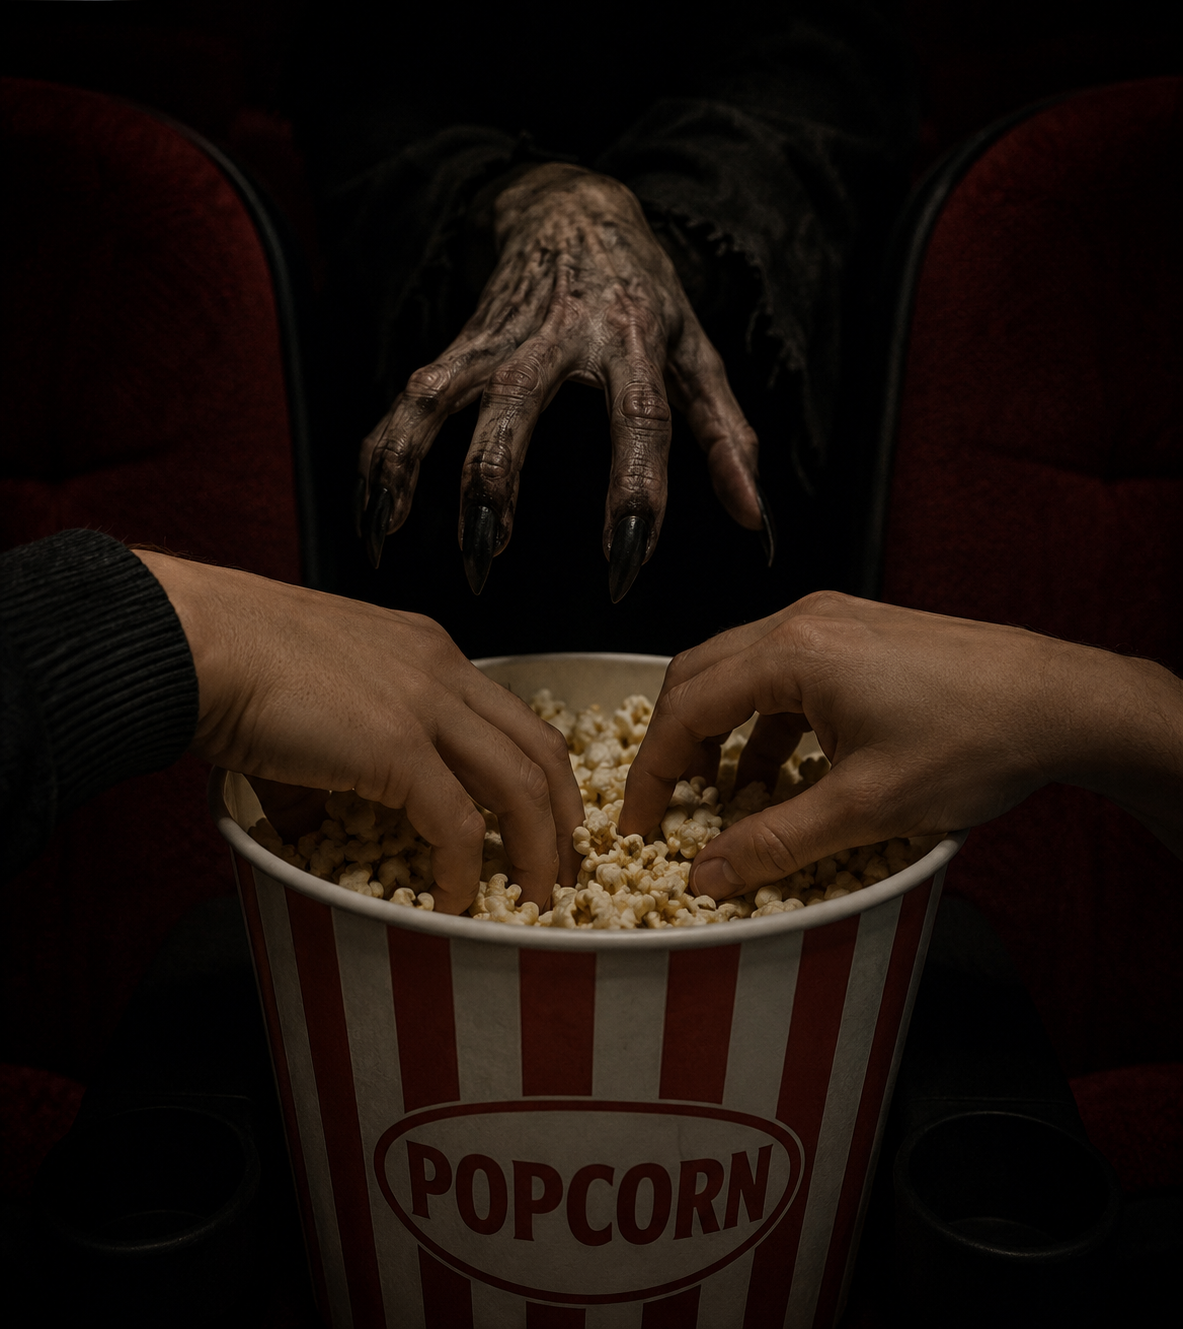
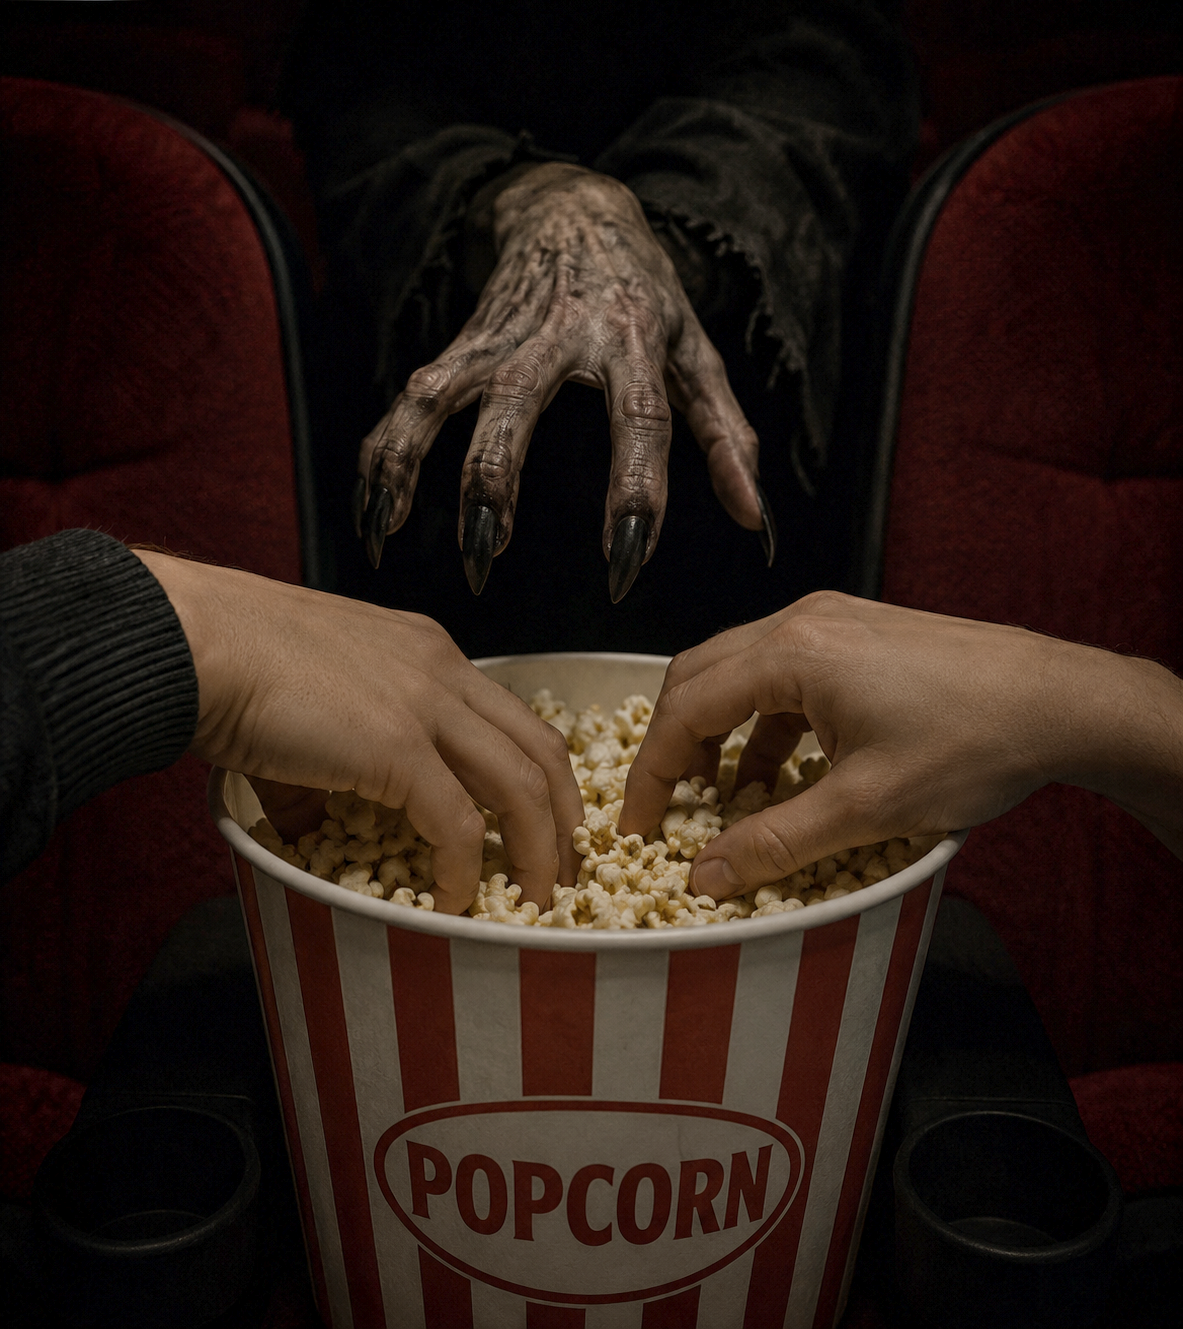
Gently lift the claw and OG-card images too
Gamma 1.35 on the fun-fact hand, 1.25 on the social card, so they read on
dim screens; ?v=2 references bust the immutable image cache.

diff --git a/third_wheel/web/static/index.html b/third_wheel/web/static/index.html
@@ -16,14 +16,14 @@
   <meta property="og:title" content="הגלגל 5 · Third Wheel" />
   <meta property="og:description" content="מוצא זוגות לבד באולם הקולנוע — וקונה לך את המושב שממש לידם. כלי בדיחה. שעובד באמת." />
   <meta property="og:url" content="__BASE_URL__/" />
-  <meta property="og:image" content="__BASE_URL__/assets/og-image.png" />
+  <meta property="og:image" content="__BASE_URL__/assets/og-image.png?v=2" />
   <meta property="og:image:width" content="1200" />
   <meta property="og:image:height" content="630" />
   <meta property="og:image:alt" content="הגלגל 5 — יד מפלצתית נשלחת אל דלי הפופקורן של זוג באולם קולנוע" />
   <meta name="twitter:card" content="summary_large_image" />
   <meta name="twitter:title" content="הגלגל 5 · Third Wheel" />
   <meta name="twitter:description" content="מוצא זוגות לבד באולם — וקונה לך את המושב שממש לידם." />
-  <meta name="twitter:image" content="__BASE_URL__/assets/og-image.png" />
+  <meta name="twitter:image" content="__BASE_URL__/assets/og-image.png?v=2" />
 
   <link rel="stylesheet" href="/static/style.css?v=__ASSET_V__" />
 </head>
@@ -72,7 +72,7 @@
           <blockquote id="factText" class="funfact__text"><span class="spinner"></span>טוען עובדה…</blockquote>
           <button id="factBtn" class="btn">עובדה נוספת 🎬</button>
         </div>
-        <img class="funfact__hand" src="/assets/third_hand_in_popcorn.png" alt="יד שלישית נכנסת לדלי הפופקורן" />
+        <img class="funfact__hand" src="/assets/third_hand_in_popcorn.png?v=2" alt="יד שלישית נכנסת לדלי הפופקורן" />
       </div>
     </section>
   </main>
